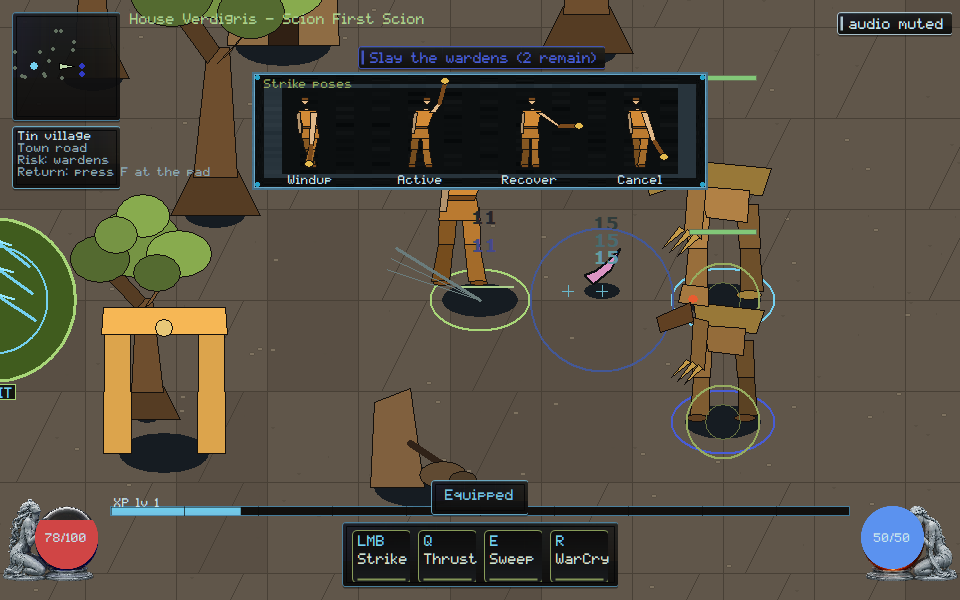
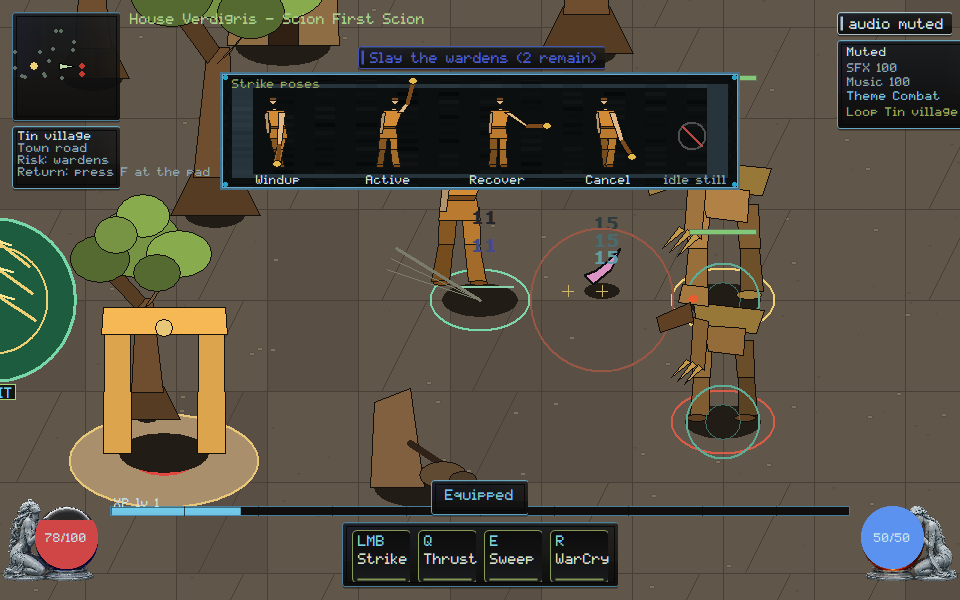
native: name strike poses and War Cry weave so idle still and screen fill cannot certify
Owner strips keep windup/active silhouettes and four bronze weave beats. TASK-0173/0174 stay with Kimi.

diff --git a/native/client/main.cpp b/native/client/main.cpp
@@ -6011,7 +6011,7 @@ void paint_attack_pose_strip(ClientState& state, HDC dc, const RECT& bounds,
                              render::List& rl) {
   if (!state.pose_review_strip) return;
   const int s = hud_scale(static_cast<int>(bounds.bottom));
-  const int pane_w = 456 * s;
+  const int pane_w = 520 * s;
   const int pane_h = 118 * s;
   const int left = (static_cast<int>(bounds.right) - pane_w) / 2;
   const int top = 72 * s;
@@ -6023,8 +6023,10 @@ void paint_attack_pose_strip(ClientState& state, HDC dc, const RECT& bounds,
   SetBkMode(dc, TRANSPARENT);
   HGDIOBJ old_font = SelectObject(dc, skin::font_small());
   SetTextColor(dc, skin::kVerdigris);
-  const char* title = "Strike poses";
+  const char* title = vector_art::owner_strike_poses_label();
   TextOutA(dc, left + 12 * s, top + 6 * s, title, static_cast<int>(strlen(title)));
+  rl.push_back({render::Op::Hud, static_cast<double>(left + 12 * s),
+                static_cast<double>(top + 6 * s), 0.0, 1, "pose:strike-poses"});
   const char* names[4] = {"Windup", "Active", "Recover", "Cancel"};
   const char* tokens[4] = {"pose-strip:windup", "pose-strip:active",
                            "pose-strip:recovery", "pose-strip:cancel"};
@@ -6053,6 +6055,17 @@ void paint_attack_pose_strip(ClientState& state, HDC dc, const RECT& bounds,
     rl.push_back({render::Op::Hud, static_cast<double>(cx),
                   static_cast<double>(base_y), 0.0, i + 1, tokens[i]});
   }
+  const int rx = left + pane_w - 48 * s;
+  const int ry = top + 64 * s;
+  ring_ellipse(dc, rx, ry, 14 * s, 14 * s, RGB(80, 80, 80), 2);
+  draw_line(dc, rx - 10 * s, ry - 10 * s, rx + 10 * s, ry + 10 * s, RGB(185, 72, 69),
+            2);
+  SetTextColor(dc, skin::kInkDim);
+  const char* rejected = "idle still";
+  TextOutA(dc, rx - 28 * s, top + pane_h - 16 * s, rejected,
+           static_cast<int>(strlen(rejected)));
+  rl.push_back({render::Op::Hud, static_cast<double>(rx), static_cast<double>(ry),
+                0.0, 0, "pose-strip:idle-rejected"});
   SelectObject(dc, old_font);
 }
 
@@ -6060,7 +6073,7 @@ void paint_weave_review_strip(ClientState& state, HDC dc, const RECT& bounds,
                               render::List& rl) {
   if (!state.weave_review_strip) return;
   const int s = hud_scale(static_cast<int>(bounds.bottom));
-  const int pane_w = 456 * s;
+  const int pane_w = 520 * s;
   const int pane_h = 108 * s;
   const int left = (static_cast<int>(bounds.right) - pane_w) / 2;
   const int top = 72 * s;
@@ -6072,8 +6085,10 @@ void paint_weave_review_strip(ClientState& state, HDC dc, const RECT& bounds,
   SetBkMode(dc, TRANSPARENT);
   HGDIOBJ old_font = SelectObject(dc, skin::font_small());
   SetTextColor(dc, skin::kVerdigris);
-  const char* title = "War Cry weave";
+  const char* title = vector_art::owner_war_cry_weave_label();
   TextOutA(dc, left + 12 * s, top + 6 * s, title, static_cast<int>(strlen(title)));
+  rl.push_back({render::Op::Hud, static_cast<double>(left + 12 * s),
+                static_cast<double>(top + 6 * s), 0.0, 1, "weave:war-cry"});
   const char* names[4] = {"Cast", "Travel", "Impact", "Cancel"};
   const char* tokens[4] = {"weave-strip:cast", "weave-strip:travel",
                            "weave-strip:impact", "weave-strip:cancel"};
@@ -6113,6 +6128,17 @@ void paint_weave_review_strip(ClientState& state, HDC dc, const RECT& bounds,
     rl.push_back({render::Op::Hud, static_cast<double>(cx),
                   static_cast<double>(cy), 0.0, i + 1, tokens[i]});
   }
+  const int rx = left + pane_w - 48 * s;
+  const int ry = top + 58 * s;
+  ring_ellipse(dc, rx, ry, 14 * s, 14 * s, RGB(80, 80, 80), 2);
+  draw_line(dc, rx - 10 * s, ry - 10 * s, rx + 10 * s, ry + 10 * s, RGB(185, 72, 69),
+            2);
+  SetTextColor(dc, skin::kInkDim);
+  const char* rejected = "screen fill";
+  TextOutA(dc, rx - 28 * s, top + pane_h - 16 * s, rejected,
+           static_cast<int>(strlen(rejected)));
+  rl.push_back({render::Op::Hud, static_cast<double>(rx), static_cast<double>(ry),
+                0.0, 0, "weave-strip:fill-rejected"});
   SelectObject(dc, old_font);
 }
 
@@ -11079,6 +11105,10 @@ int scenario_attack_poses() {
   const std::string png = dir + "\\attack-poses-960x600.png";
   scenario_check(reference_present(state, 960, 600, png),
                  "attack-poses: windup/active/cancel family capture written");
+  scenario_check(has_pose("pose:strike-poses") && has_pose("pose-strip:windup"),
+                 "attack-poses: live HUD names Strike poses and Windup");
+  scenario_check(has_pose("pose-strip:idle-rejected"),
+                 "attack-poses: live HUD rejects idle still");
   return scenario_failures;
 }
 
@@ -11385,6 +11415,10 @@ int scenario_weave_vfx() {
   const std::string png = dir + "\\weave-vfx-960x600.png";
   scenario_check(reference_present(state, 960, 600, png),
                  "weave-vfx: cast/impact family capture written");
+  scenario_check(has_hud("weave:war-cry") && has_hud("weave-strip:travel"),
+                 "weave-vfx: live HUD names War Cry weave and Travel");
+  scenario_check(has_hud("weave-strip:fill-rejected"),
+                 "weave-vfx: live HUD rejects screen fill");
   return scenario_failures;
 }
 

diff --git a/native/client/vector_art.hpp b/native/client/vector_art.hpp
@@ -211,6 +211,8 @@ inline bool idle_as_attack_family_fails_review(bool only_idle_pose) {
   return only_idle_pose;
 }
 
+inline const char* owner_strike_poses_label() { return "Strike poses"; }
+
 // VG-ART-006: WarCry weave beats share bronze identity. A single blob or
 // screen-filling ring cannot certify the family.
 inline constexpr bool kWeaveHasCastMotes = true;
@@ -225,6 +227,8 @@ inline bool blob_weave_fails_review(bool cast_motes, bool travel_orbit,
                                     bool impact_ticks, bool cancel_implode) {
   return !cast_motes || !travel_orbit || !impact_ticks || !cancel_implode;
 }
+
+inline const char* owner_war_cry_weave_label() { return "War Cry weave"; }
 
 inline void humanoid(HDC dc, int cx, int base_y, int height_px,
                      const Style& style, const Pose& pose, Held held) {

diff --git a/docs/execution/CROSSWALK.md b/docs/execution/CROSSWALK.md
@@ -141,8 +141,9 @@ fountain; gates are two pillars with a lintel. Shrine and gate sit inside
 the spawn capture. Scenario `kit-chunk`. Evidence
 `docs/execution/evidence/VG-ART-004.json`.
 VG-ART-006: WarCry family `vfx-weave:cast|travel|impact|cancel`; radius
-capped vs screen-fill; telegraph remains. Scenario `weave-vfx`.
-Evidence `docs/execution/evidence/VG-ART-006.json`.
+capped vs screen-fill; telegraph remains. Owner strip paints War Cry weave
+/ Travel. Screen fill cannot certify. Scenario `weave-vfx`. Evidence
+`docs/execution/evidence/VG-ART-006.json`.
 VG-UI-008: XInput sampled on the fixed tick; A strike / B dash / X take /
 Y gear; hotplug in/out; mouse position cannot mint `pad:connected`.
 Scenario `pad-path`. Evidence `docs/execution/evidence/VG-UI-008.json`.
@@ -166,6 +167,9 @@ external concept-art token cannot substitute, a skeleton
 `art: PNG billboards loaded` chip cannot count as the composition sheet,
 and a chibi (1/3) head cannot pass as adult. Scenario `visual-target`.
 Evidence `docs/execution/evidence/VG-ART-001.json`.
+VG-ART-003: windup/active/recovery/cancel silhouettes on Strike poses.
+Idle still cannot certify the family. Frame count alone cannot pass.
+Scenario `attack-poses`. Evidence `docs/execution/evidence/VG-ART-003.json`.
 VG-ART-002: bronze/stone albedo+rim maps with SPDX CC0; magenta fill
 cannot ship. Owner strip paints Bronze stone / Cooked CC0. Village kit
 uses the family. Scenario `bronze-stone`. Evidence

diff --git a/orchestration/CURSOR_KIMI_LANES.md b/orchestration/CURSOR_KIMI_LANES.md
@@ -678,3 +678,13 @@ Please move off that branch before taking a new native path.
 - **Stay off** `native/client/main.cpp` and `docs/execution/**`. SEC/CORE
   remain yours. GOV-002 still unstamped.
 
+## Cursor reply (2026-09-06, strike poses and War Cry weave)
+
+- **Lease:** `main.cpp` still **ACTIVE**. `remote_session.cpp` stays
+  **RELEASED**. Do not re-spec TASK-0108 core/wire (`3b929637`).
+- **Landed this push:** VG-ART-003 — Strike poses / Windup; idle still
+  rejected. VG-ART-006 — War Cry weave / Travel; screen fill rejected.
+  Captures viewed. TASK-0173/0174 stay yours. Not Owner Demo.
+- **Stay off** `native/client/main.cpp` and `docs/execution/**`. SEC/CORE
+  remain yours. GOV-002 still unstamped.
+

diff --git a/docs/rebuild/HANDOFF.md b/docs/rebuild/HANDOFF.md
@@ -1,5 +1,16 @@
 # Native reconstitution handoff
 
+## 2026-09-06 — strike poses and War Cry weave (Cursor)
+
+- VG-ART-003: owner Strike poses strip paints Windup/Active/Recover/Cancel
+  silhouettes. Idle still cannot certify. Frame count cannot pass. TASK-0173
+  models stay Kimi.
+- VG-ART-006: owner War Cry weave strip paints Cast/Travel/Impact/Cancel.
+  Screen fill cannot certify. Telegraph remains visible. TASK-0173/0174
+  stay Kimi.
+- Scenarios `attack-poses` / `weave-vfx` PASS. Captures viewed. Not Owner
+  Demo. Does not re-spec TASK-0108.
+
 ## 2026-09-06 — bronze family, village kit, world hold (Cursor)
 
 - VG-ART-002: owner Bronze stone strip paints Cooked CC0. Magenta cannot
